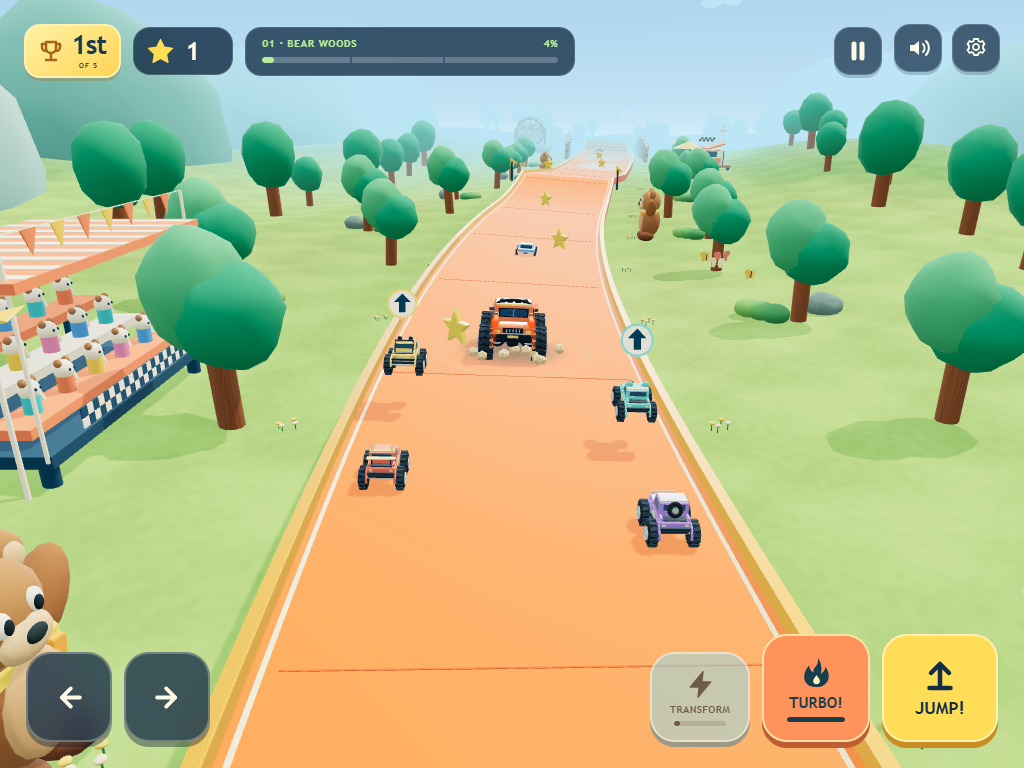
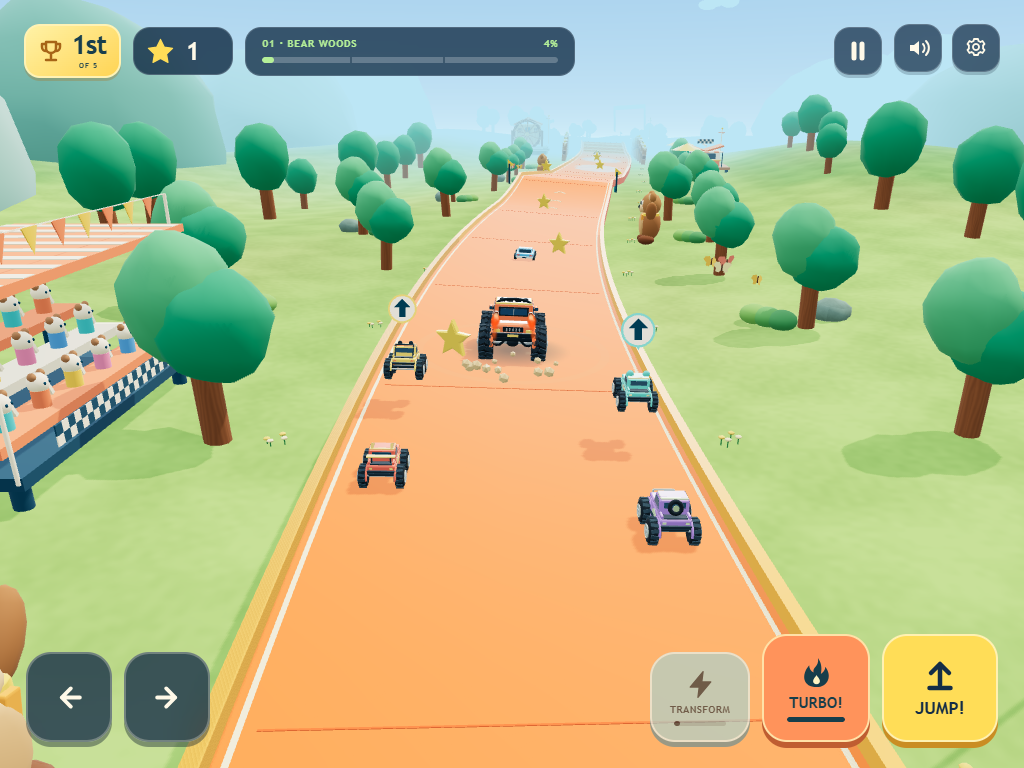
Record the verified public shore and crush-star release

diff --git a/docs/VALIDATION.md b/docs/VALIDATION.md
@@ -162,6 +162,8 @@ Each newly crushed toy car produces two gold stars that rise briefly from the fl
 
 All **141 release unit tests pass**. The production build produces `index-DIABTUBB.js` / `index-L73CJAqG.css`, approximately 719 kB minified / 194 kB gzip JavaScript, with the existing Vite size advisory. All **eight production browser checks pass in Chrome (about 2.1 minutes) and WebKit (about 2.6 minutes)**. Added coverage checks visible crush stars and their frozen/expired/reset states, plus rotating the tablet during driving and while paused without losing the race or usable touch controls. Both complete races finish first, save an earned truck and replay successfully; neither engine records browser/network errors.
 
+The [shore and crush-star deployment](https://github.com/yanivalfasykeelusa/james-monster-skyway/actions/runs/34639371761) successfully publishes runtime commit `aab8ec0`; the public page serves `index-DIABTUBB.js` / `index-L73CJAqG.css`. All **eight public browser checks pass in Chrome (about 2.2 minutes) and WebKit (about 2.8 minutes)**, including complete first-place races, orientation changes, crush-star pause/replay and persistent unlocks. A public four-viewport capture verifies loaded portraits and no overflowing garage or overlapping/offscreen controls. No browser/network errors were recorded. Public screenshots show the current reward cue and shoreline.
+
 ## Practical limits
 
 - Chrome and Playwright WebKit on a desktop with emulated touch are not a physical iPad or iPhone. Shipping Safari behavior, actual device frame pacing, battery use, and orientation changes still need a real-device pass.
